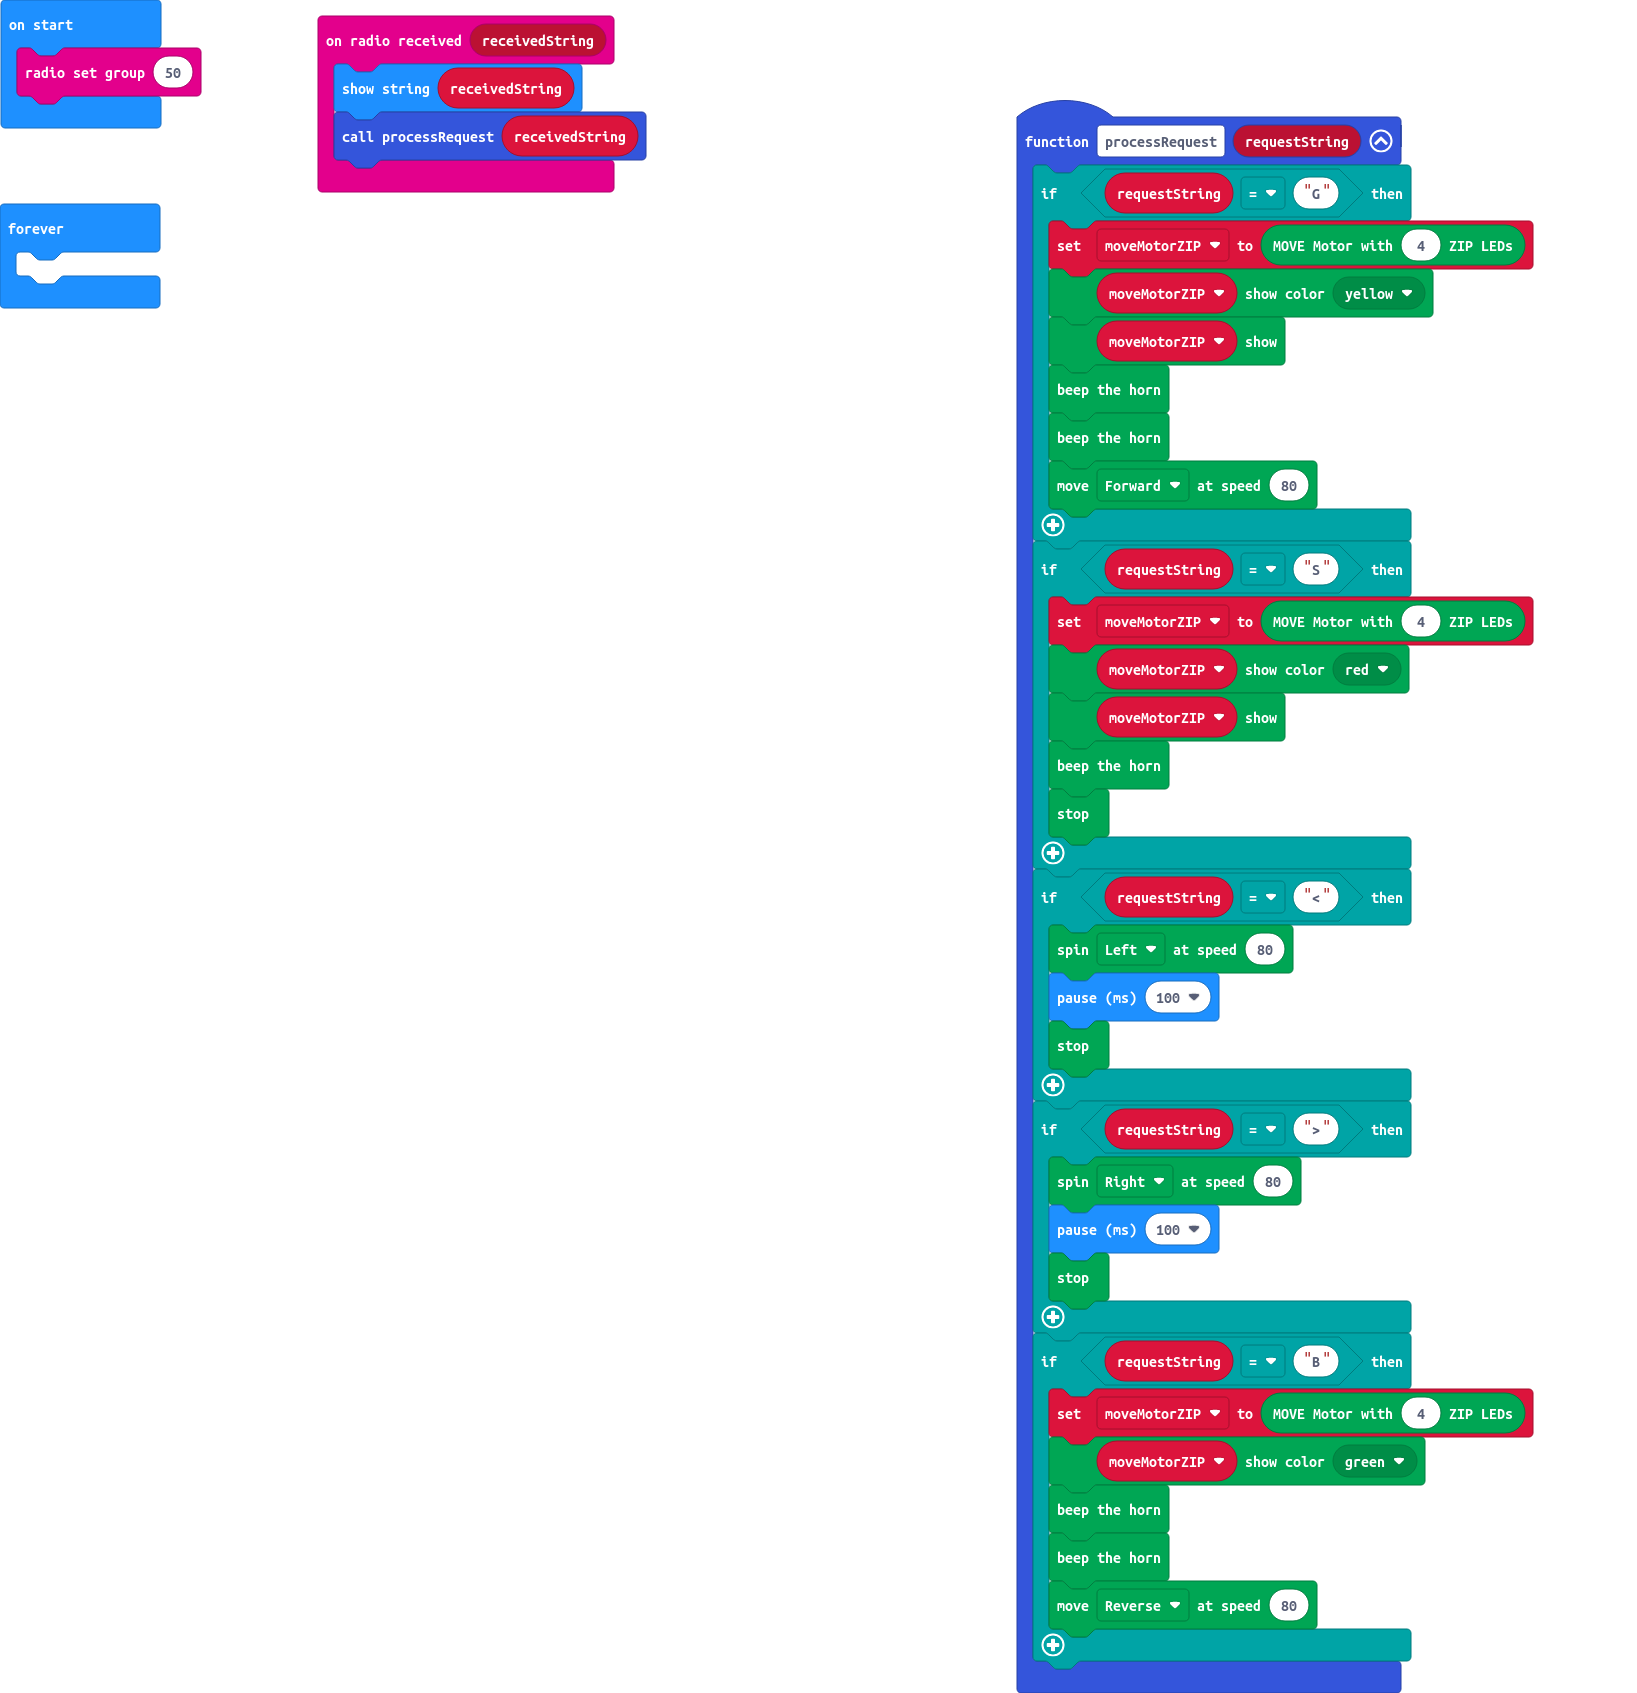
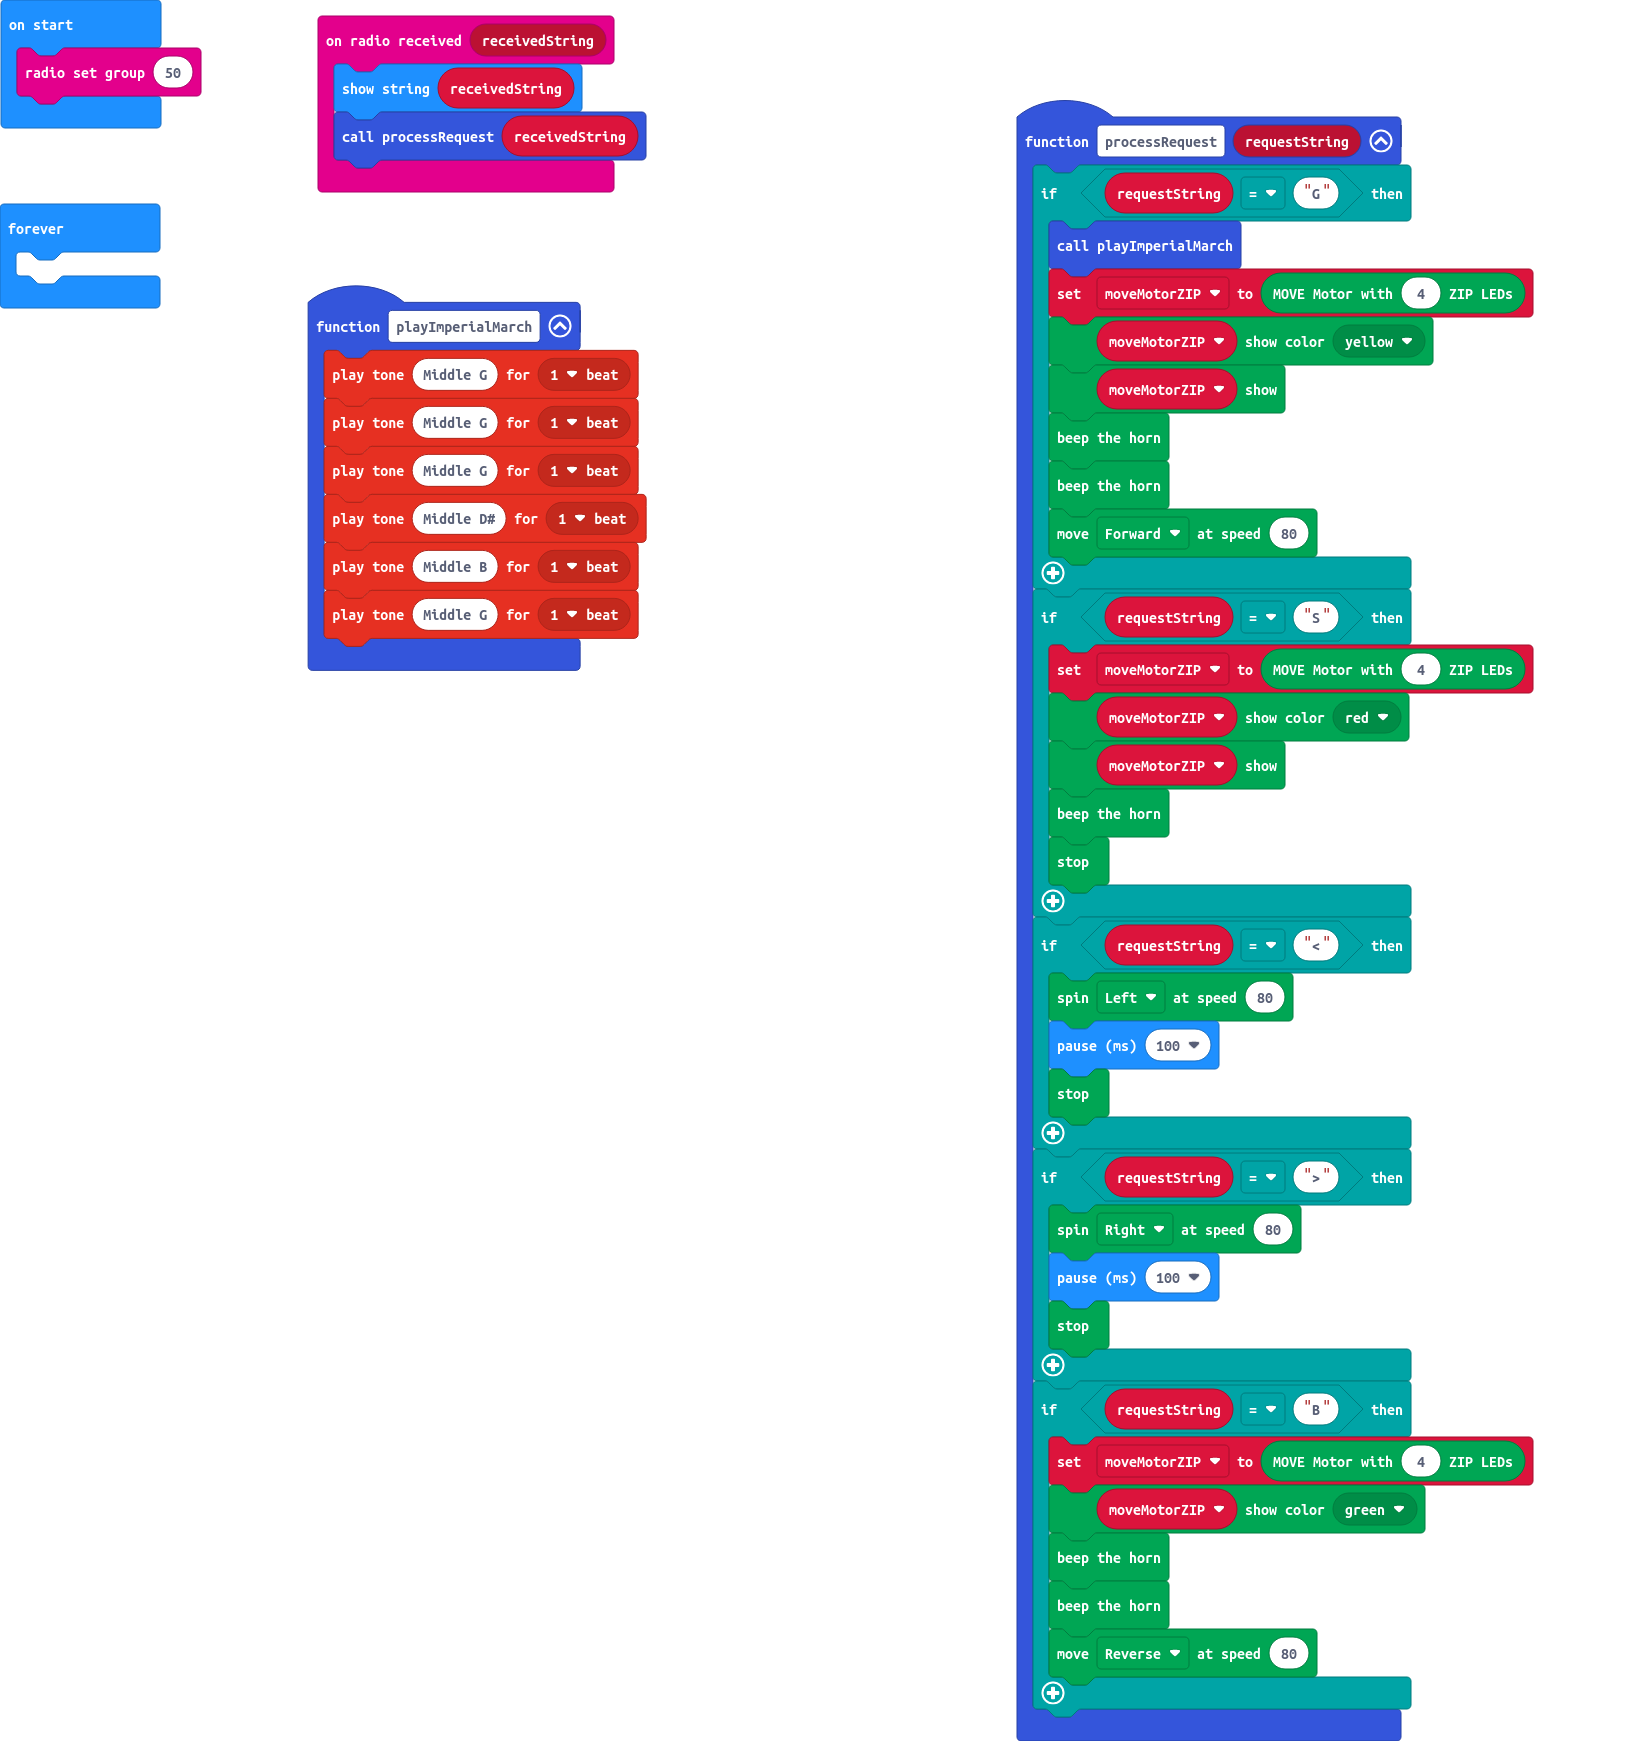
Updated to make a tune

diff --git a/main.ts b/main.ts
@@ -1,5 +1,6 @@
 function processRequest (requestString: string) {
     if (requestString == "G") {
+        playImperialMarch()
         moveMotorZIP = Kitronik_Move_Motor.createMoveMotorZIPLED(4)
         moveMotorZIP.showColor(Kitronik_Move_Motor.colors(Kitronik_Move_Motor.ZipLedColors.Yellow))
         moveMotorZIP.show()
@@ -31,6 +32,14 @@ function processRequest (requestString: string) {
         Kitronik_Move_Motor.beepHorn()
         Kitronik_Move_Motor.move(Kitronik_Move_Motor.DriveDirections.Reverse, 80)
     }
+}
+function playImperialMarch () {
+    music.playTone(392, music.beat(BeatFraction.Whole))
+    music.playTone(392, music.beat(BeatFraction.Whole))
+    music.playTone(392, music.beat(BeatFraction.Whole))
+    music.playTone(311, music.beat(BeatFraction.Whole))
+    music.playTone(494, music.beat(BeatFraction.Whole))
+    music.playTone(392, music.beat(BeatFraction.Whole))
 }
 radio.onReceivedString(function (receivedString) {
     basic.showString(receivedString)
